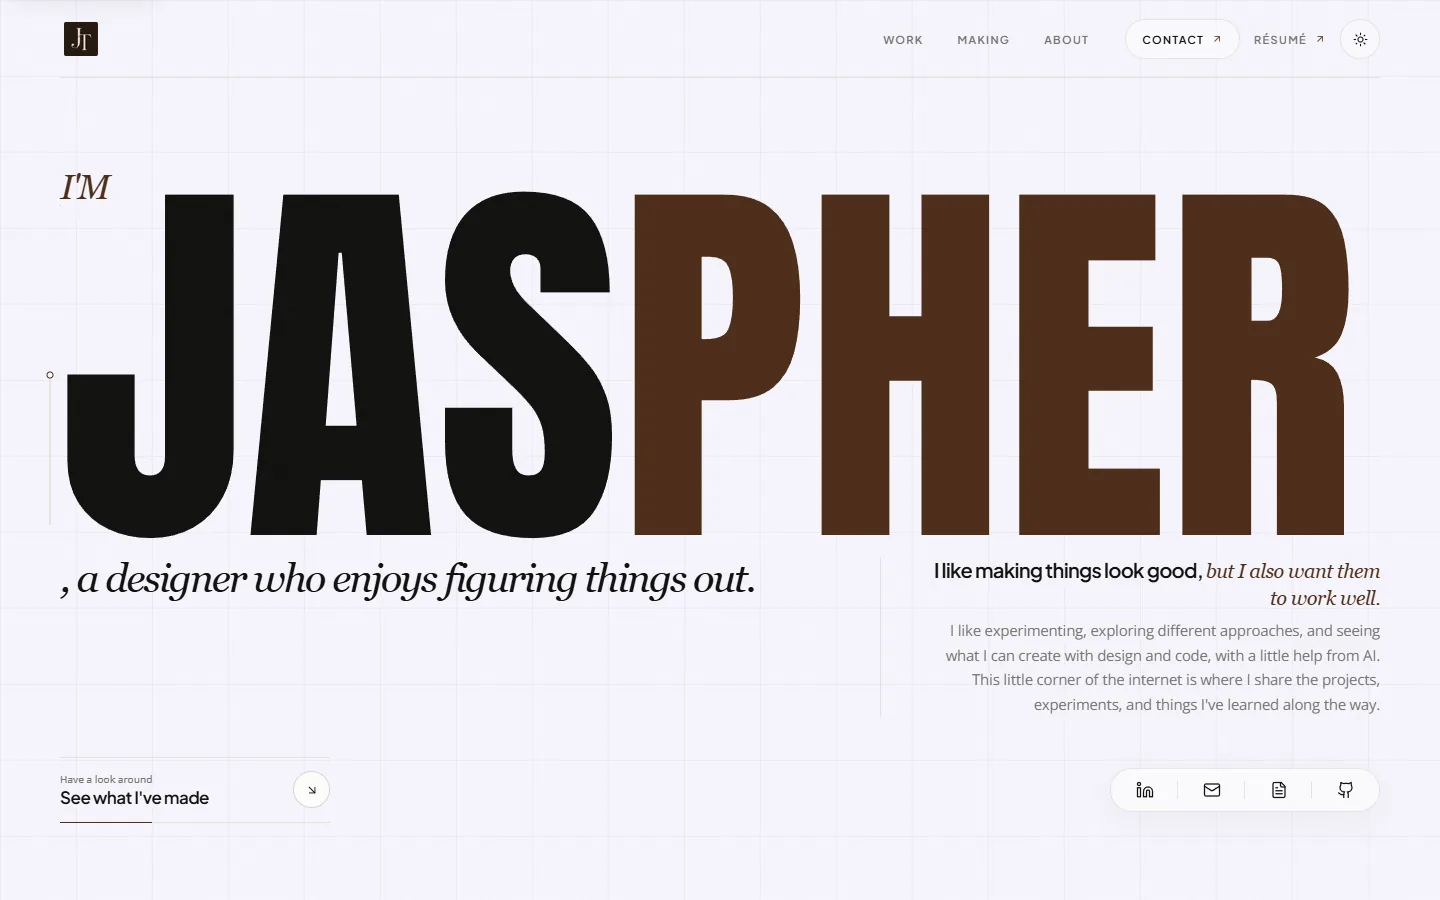
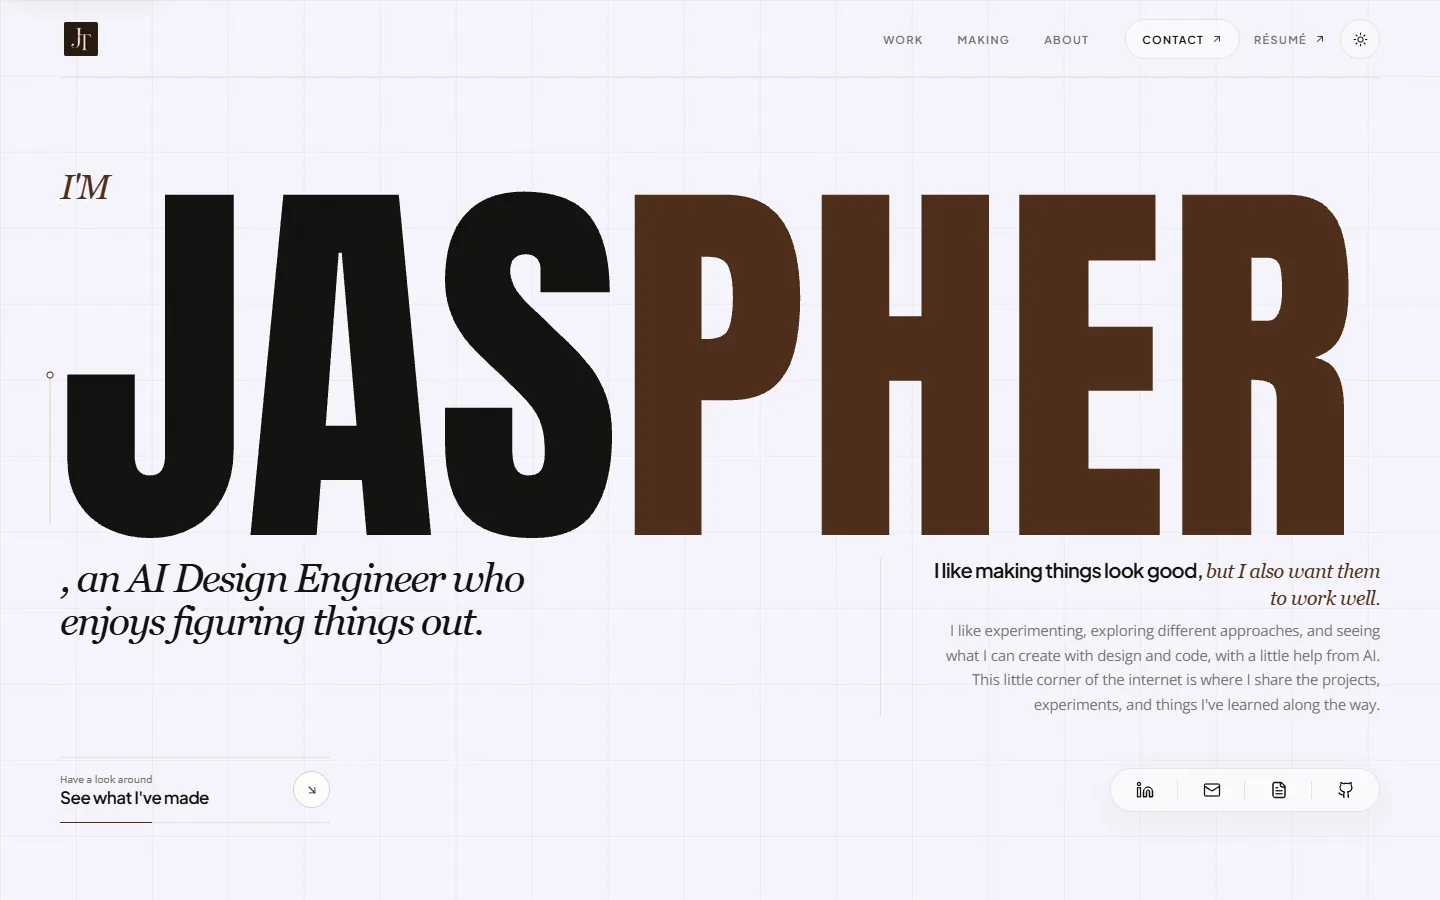
feat: update portfolio to reflect AI Design Engineer role and enhance SEO

Changed region(s): [[0.0312, 0.6222, 0.5312, 0.7156]]

diff --git a/src/lib/site.ts b/src/lib/site.ts
@@ -16,11 +16,10 @@ export const SITE_URL = normalizeSiteUrl(
 
 export const SITE_NAME = "Jaspher Tania Portfolio";
 
-export const SITE_TITLE =
-  "Jaspher Tania — UI/UX Designer & Front-End Developer";
+export const SITE_TITLE = "Jaspher Tania — AI Design Engineer";
 
 export const SITE_DESCRIPTION =
-  "Jaspher Tania designs interfaces and then builds them. Projects, animated experiments and notes from a UI/UX designer who also builds the front-end.";
+  "Jaspher Tania is an AI Design Engineer who designs interfaces and then builds them. Projects, animated experiments and notes along the way.";
 
 export const SOCIAL_LINKS = {
   github: "https://github.com/jaspherr",

diff --git a/src/components/sections/About.tsx b/src/components/sections/About.tsx
@@ -13,7 +13,7 @@ export default function About() {
             A bit about the <em>person behind it.</em>
           </h2>
           <p className="about-lead">
-            I&apos;m Jaspher, a UI/UX designer who enjoys figuring things out,
+            I&apos;m Jaspher, an AI Design Engineer who enjoys figuring things out,
             trying different approaches, and seeing where an idea can go.
             I&apos;m currently exploring how design, code, and prompt
             engineering fit together.

diff --git a/src/lib/structured-data.ts b/src/lib/structured-data.ts
@@ -36,7 +36,7 @@ export const profileJsonLd = [
       name: "Jaspher Tania",
       url: SITE_URL,
       image: absoluteUrl("/extendedavatar.png"),
-      jobTitle: "UI/UX Designer & Front-End Developer",
+      jobTitle: "AI Design Engineer",
       sameAs: [SOCIAL_LINKS.linkedin, SOCIAL_LINKS.github],
       knowsAbout: [
         "UI/UX Design",

diff --git a/src/components/sections/Hero.tsx b/src/components/sections/Hero.tsx
@@ -69,7 +69,7 @@ export default function Hero() {
 
       <div className="hero-intro-row">
         <p className="hero-designer">
-          , a designer who enjoys figuring things out.
+          , an AI Design Engineer who enjoys figuring things out.
         </p>
 
         <p className="hero-lede">

diff --git a/src/components/sections/about.css b/src/components/sections/about.css
@@ -29,15 +29,6 @@
   padding-top: 9px;
 }
 
-.about-story::before {
-  content: "";
-  display: block;
-  width: 34px;
-  height: 2px;
-  margin-bottom: 24px;
-  background: var(--brown);
-}
-
 .about-story h2 {
   max-width: 580px;
   margin: 0;

diff --git a/src/lib/seo.ts b/src/lib/seo.ts
@@ -21,6 +21,7 @@ const SITE_KEYWORDS = [
   "UI UX Designer",
   "UI Designer",
   "UX Designer",
+  "AI Design Engineer",
   "Front-End Developer",
   "Web Designer",
   "Product Designer",

diff --git a/README.md b/README.md
@@ -4,13 +4,13 @@ A personal space for design, front-end work and the experiments in between.
 
 **Live site:** [jt-portfolio-rho.vercel.app](https://jt-portfolio-rho.vercel.app)
 
-![The portfolio's hero: the name "JASPHER" set large across the screen, with "a designer who enjoys figuring things out" beneath it and a short introduction on the right.](.github/assets/portfolio-preview.webp)
+![The portfolio's hero: the name "JASPHER" set large across the screen, with "an AI Design Engineer who enjoys figuring things out" beneath it and a short introduction on the right.](.github/assets/portfolio-preview.webp)
 
 ## About
 
-I'm a UI/UX designer who also builds what I design. This site is where I share
-the projects I've worked on, how I approach design and code, and a few things I
-tried along the way.
+I'm an AI Design Engineer: I design interfaces and build them with the help of
+AI. This site is where I share the projects I've worked on, how I approach
+design and code, and a few things I tried along the way.
 
 The site is built the way it describes my process: I start with an idea, work
 through the details with ChatGPT, build it with Claude Code, then review and
